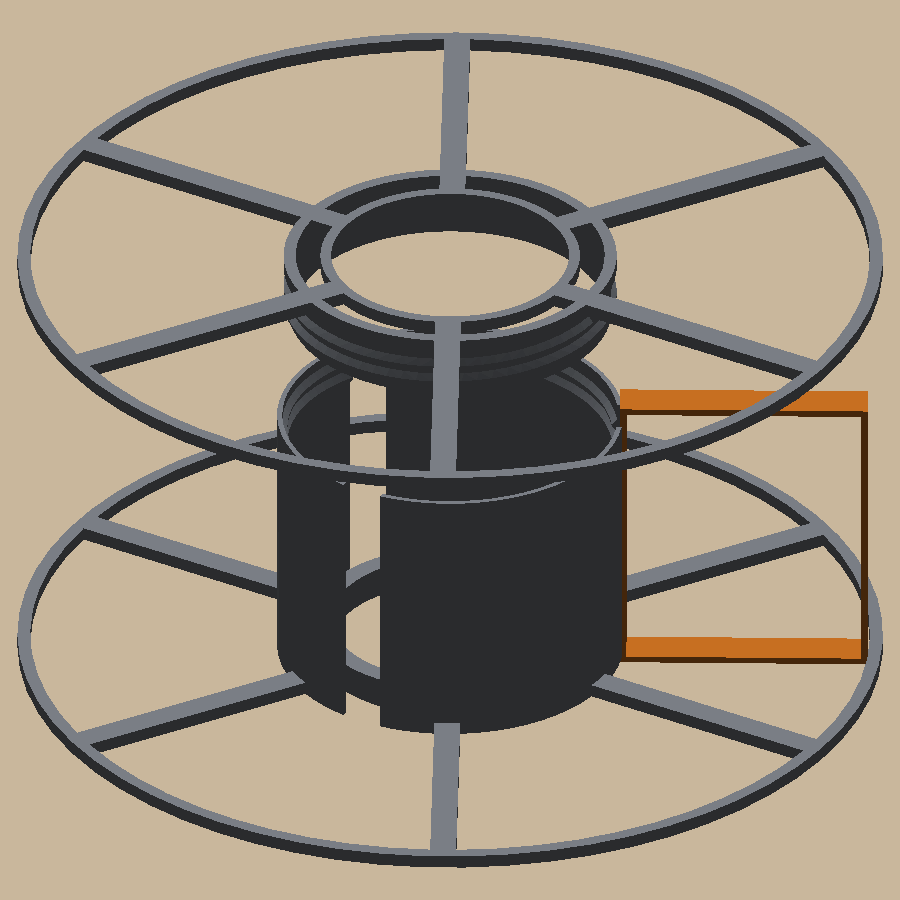
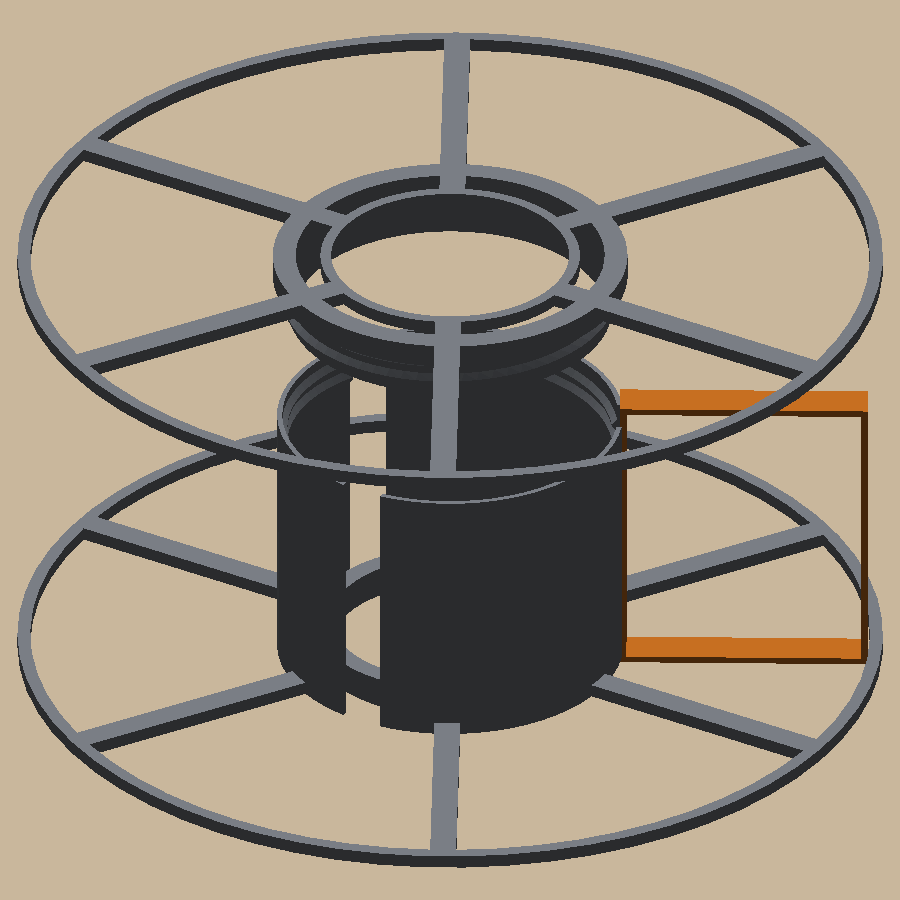
Refill spool: straps go on with the cap off, cap lip holds the slotted barrel's top in
From the pre-print review: straps looped through both flanges jam the cap after ~18°, and the three barrel strips
are only joined at the bottom. Strap tests now run cap-off with a lift-off check; the cap's flange gets a solid ring
and a 2.4 mm lip 0.2 mm outside the barrel. 58 g sliced. Docs: load/unload steps, notch side, what to measure.

diff --git a/examples/refill-spool/tests/test_assembly.py b/examples/refill-spool/tests/test_assembly.py
@@ -2,11 +2,12 @@
 from math import hypot
 
 import pytest
+from build123d import Pos
 
 from cadkit.clash import find_clashes
 from refill_spool.assembly import coil, placed_parts, strap_paths
 from refill_spool.params import P, Params
-from refill_spool.parts import engaged, play_per_flank
+from refill_spool.parts import engaged, play_per_flank, ring
 
 
 def test_cap_seats_on_the_barrel_without_clashing():
@@ -45,9 +46,29 @@ def test_ridge_check_can_fail():
     assert bolt_points_in_nut(Params(thread_clear=-0.3)) > 0
 
 
-def test_strap_paths_are_clear():
-    """Each strap runs under the core in a barrel slot, out through both flanges, and back over the coil."""
-    things = placed_parts(P) + [("coil", coil(P))]
+def test_strap_paths_are_clear_with_the_cap_off():
+    """Straps go on with the cap off (on, they'd stop it turning): each runs under the core in a barrel slot, out
+    through the barrel half's flange, and back over the coil inside the rim."""
+    (barrel_name, barrel), _ = placed_parts(P)
+    things = [(barrel_name, barrel), ("coil", coil(P))]
     for k, path in enumerate(strap_paths(P)):
         hits = [(n, round((path & s).volume, 3)) for n, s in things if (path & s).volume > 1e-3]
         assert hits == [], f"strap {k}: {hits}"
+
+
+@pytest.mark.parametrize("lift", [2.0, 10.0, 30.0, 70.0])
+def test_strapped_coil_lifts_off_the_barrel(lift):
+    (_, barrel), _ = placed_parts(P)
+    load = [coil(P)] + strap_paths(P)
+    assert [round((Pos(0, 0, lift) * s & barrel).volume, 3) for s in load] == [0] * len(load)
+
+
+def test_cap_lip_holds_the_barrel_top_in():
+    """The barrel's strips are only joined at the bottom: screwed home, a lip on the cap wraps their top ends so
+    the thread can't push them apart, lip_clear outside them."""
+    (_, barrel), (_, cap) = placed_parts(P)
+    lip = cap & (Pos(0, 0, P.barrel_top - P.lip_h) * ring(P.barrel_d / 2, P.barrel_d / 2 + 5, P.lip_h))
+    bb = lip.bounding_box()
+    assert bb.min.Z == pytest.approx(P.barrel_top - P.lip_h, abs=1e-3)
+    assert min(hypot(v.X, v.Y) for v in lip.vertices()) == pytest.approx(P.barrel_d / 2 + P.lip_clear, abs=0.02)
+    assert lip.distance_to(barrel) == pytest.approx(P.lip_clear, abs=0.02)

diff --git a/examples/refill-spool/refill_spool/parts.py b/examples/refill-spool/refill_spool/parts.py
@@ -2,7 +2,7 @@
 the spool axis (Z) for the assembly."""
 import math
 
-from build123d import Align, Box, Cylinder, Part, Pos, Rot
+from build123d import Align, Box, Cone, Cylinder, Part, Pos, Rot
 
 from cadkit.shapes import thread, thread_gap
 from refill_spool.params import P, Params
@@ -89,7 +89,14 @@ def cap_centered(p: Params = P) -> Part:
     top = p.flange_t + p.thread_len
     inner = p.bolt_root - p.spigot_wall
     part = flange(p) + ring(p.bore_d / 2, p.bore_d / 2 + p.cap_hub_wall, p.flange_t)
-    part += ring(inner, p.bolt_root + p.thread_depth, p.flange_t)  # under the ridge's lowest flank
+    lip_in = p.barrel_d / 2 + p.lip_clear
+    lip_out = lip_in + p.lip_t
+    part += ring(inner, lip_out, p.flange_t)  # under the spigot's ridge and the lip
+    lip = Pos(0, 0, p.flange_t) * ring(lip_in, lip_out, p.lip_h)
+    tip = p.flange_t + p.lip_h - p.lip_chamfer
+    lead_in = Cone(lip_in, lip_in + p.lip_chamfer, p.lip_chamfer, align=UP) - Cylinder(lip_in - 1, p.lip_chamfer,
+                                                                                      align=UP)
+    part += lip - Pos(0, 0, tip) * lead_in
     part += ring(inner, p.bolt_root, top)
     z0, z1 = bolt_span(p)
     part += thread(p.bolt_root, p.thread_depth, p.pitch, z1 - z0, p.thread_crest, z0=z0, flank=p.thread_flank)

diff --git a/examples/refill-spool/tests/test_parts.py b/examples/refill-spool/tests/test_parts.py
@@ -86,11 +86,16 @@ def test_ams_lite_notch(barrel):
         P.notch_w, abs=0.05)
 
 
-def test_cap_flange_and_spigot(capp):
+def test_cap_flange_spigot_and_lip(capp):
+    lip_out = P.barrel_d / 2 + P.lip_clear + P.lip_t
     assert radial(capp, C, PLAIN_GAP * 1.5, LOW) == [
         pytest.approx((BORE, BORE + P.cap_hub_wall), abs=0.02),
-        pytest.approx((P.bolt_root - P.spigot_wall, P.bolt_root + P.thread_depth), abs=0.02),
+        pytest.approx((P.bolt_root - P.spigot_wall, lip_out), abs=0.02),
         pytest.approx((P.rim_in, P.rim_d / 2), abs=0.02)]
+    lip = radial(capp, C, PLAIN_GAP * 1.5, P.flange_t + 0.1, r0=P.barrel_d / 2 - 0.5, r1=P.rim_in - 0.5)
+    assert lip == [pytest.approx((P.barrel_d / 2 + P.lip_clear, lip_out), abs=0.02)]
+    top = radial(capp, C, PLAIN_GAP * 1.5, P.flange_t + P.lip_h - 0.05, r0=P.barrel_d / 2 - 0.5, r1=P.rim_in - 0.5)
+    assert top[0][0] > P.barrel_d / 2 + P.lip_clear + P.lip_chamfer / 2  # lead-in at the lip's tip
     assert capp.bounding_box().max.Z == pytest.approx(P.flange_t + P.thread_len, abs=1e-3)
     outer = max(radial(capp, C, a, P.flange_t + P.thread_len / 2)[0][1] for a in range(0, 360, 5))
     assert outer == pytest.approx(P.bolt_root + P.thread_depth, abs=0.05)

diff --git a/examples/refill-spool/refill_spool/params.py b/examples/refill-spool/refill_spool/params.py
@@ -31,6 +31,10 @@ class Params:
     # cap
     cap_hub_wall: float = 2.5
     spigot_wall: float = 1.6
+    lip_h: float = 2.4  # ring on the cap flange round the barrel's top: holds the slotted barrel's strips in
+    lip_t: float = 0.8
+    lip_clear: float = 0.2  # radial, outside the barrel
+    lip_chamfer: float = 0.6  # lead-in on the lip's inner tip
     # thread: barrel top is the nut, cap spigot the bolt
     pitch: float = 4.0
     thread_depth: float = 1.2
@@ -50,7 +54,7 @@ class Params:
 
     def __post_init__(self):
         """Heights land on the printer's layers (yours, from cadkit.settings), so every top prints whole."""
-        for name in ("flange_t", "hub_h", "notch_depth"):
+        for name in ("flange_t", "hub_h", "notch_depth", "lip_h"):
             object.__setattr__(self, name, self.printer.snap(getattr(self, name)))
         for name in ("inside_w", "thread_len"):  # stacked on the flange
             object.__setattr__(self, name, self.printer.layers(getattr(self, name)))

diff --git a/examples/refill-spool/refill_spool/build.py b/examples/refill-spool/refill_spool/build.py
@@ -1,5 +1,6 @@
 """uv run python -m refill_spool.build [--out out]: STEP for CAD, one Bambu Studio plate per half, and shaded
-previews in out/render (iso.png: the halves apart over the coil's place; top.png: the barrel half from above)."""
+previews in out/render (iso.png: the halves apart over the coil's place; top.png: the barrel half from
+above; cap.png: the cap as printed, spigot and lip up)."""
 import argparse
 import sys
 from pathlib import Path
@@ -32,6 +33,7 @@ def main(argv: list[str] | None = None) -> int:
     render([(b, GRAY), (apart, GRAY)] + [(s, STRAP) for s in strap_paths(P)[:1]], out / "render" / "iso.png",
            view=(0.6, -1, 0.7), px=900)
     render([(b, GRAY)], out / "render" / "top.png", view=(0, 0, 1), px=900)
+    render([(cap(P), GRAY)], out / "render" / "cap.png", view=(0.6, -1, 0.8), px=900)
     print(f"wrote {out}/ (plates.csv lists what to print)")
     return 0
 

diff --git a/examples/refill-spool/tests/test_build.py b/examples/refill-spool/tests/test_build.py
@@ -8,7 +8,7 @@ from refill_spool.params import P
 
 def test_build_writes_plates_steps_and_renders(tmp_path):
     assert build.main(["--out", str(tmp_path)]) == 0
-    for f in ("render/iso.png", "render/top.png", "step/barrel_half.step", "step/cap.step", "plates.csv"):
+    for f in ("render/iso.png", "render/top.png", "render/cap.png", "step/barrel_half.step", "step/cap.step", "plates.csv"):
         assert (tmp_path / f).exists(), f
     s = slicers.active()
     got = {}

diff --git a/examples/refill-spool/README.md b/examples/refill-spool/README.md
@@ -2,7 +2,7 @@
 
 <img src="docs/images/iso.png" width="49%" alt="Barrel half with the cap lifted off, one strap loop in orange"> <img src="docs/images/top.png" width="49%" alt="Barrel half from above">
 
-A reusable spool for Bambu Lab 1 kg refill coils, made to use as little filament as possible: about 56 g of PETG
+A reusable spool for Bambu Lab 1 kg refill coils, made to use as little filament as possible: about 58 g of PETG
 for both halves, against ~150 g for a solid printed spool. Spoked flanges with a thin rim, a slotted Ø80 barrel,
 and a cap that screws into the barrel top. It fits the AMS lite (Ø55 bore with the drive notch, 65 mm wide).
 Zip ties thread through the barrel slots and round the coil, so the coil comes off in one piece.
@@ -13,9 +13,14 @@ uv run pytest -n 2                     # print checks, sizes, thread fit, strap 
 uv run python -m refill_spool.build    # out/plates (one plate per half), out/step, out/render
 ```
 
-Print both halves outer face down, no supports. To load a refill: put it on the barrel, screw the cap on until its
-flange lands on the barrel top, then cut the refill's own ties. To take a part-used coil off: thread zip ties
-through the three slots and round the coil, unscrew the cap, slide the coil off.
+Print both halves outer face down, no supports. The barrel half has the AMS lite drive notch: mount it with
+that side toward the drive.
+
+- **Load a refill:** slide it onto the barrel half (any of the refill's own ties that run under the core go in the
+  slots), screw the cap on until its flange lands on the barrel top, then cut the refill's ties and pull them out
+  between the spokes.
+- **Take a part-used coil off:** lay the spool barrel half down and unscrew the cap first (straps on, it can't
+  turn). Thread zip ties down the open slots and round the coil, then lift the coil off.
 
 Design and decisions: [docs/specs/refill-spool.md](docs/specs/refill-spool.md). Sizes it depends on:
 [docs/measurements.md](docs/measurements.md).

diff --git a/examples/refill-spool/docs/specs/refill-spool.md b/examples/refill-spool/docs/specs/refill-spool.md
@@ -19,9 +19,18 @@ the spool in one piece.
 - **Straps:** 3 slots, 10 mm wide, run the barrel's full length midway between spokes. A strap goes under the core
   in a slot, out through both flanges between the spokes, and back over the coil inside the rim (needs the coil
   under Ø190; measure a full one). Tests model each loop at 1.5 mm thick and require it to touch nothing.
-- **Filament:** PETG, AMS slot 1. Bambu Studio slices the pair at 56 g (barrel half 35 g, cap 21 g); the tests
+- **Filament:** PETG, AMS slot 1. Bambu Studio slices the pair at 58 g (56 g before the cap lip); the tests
   hold it under 60 g.
 
 All sizes live in `refill_spool/params.py`.
 
 ## Amendments
+
+- **2026-10-20: straps go on with the cap off; the cap gets a lip.** The pre-print review showed that straps
+  looped outside both flanges stop the cap turning after ~18°, and the barrel's three strips (slotted full length)
+  are only joined at the bottom, so the thread could push them apart and jump.
+  - New procedure: unscrew the cap, thread ties down the open slots and round the coil, lift the coil off.
+    Tests check the strap paths with the cap off and lift the strapped coil clear at several heights.
+  - The cap no longer needs strap openings, so its flange has a solid ring (Ø71 to Ø82) and a lip 2.4 mm tall,
+    0.8 mm thick, 0.2 mm outside the barrel, with a 0.6 mm lead-in. Screwed home, it wraps the strips' top ends.
+  - The drive notch is on the barrel half only: that side goes toward the AMS lite's drive.

diff --git a/examples/refill-spool/docs/measurements.md b/examples/refill-spool/docs/measurements.md
@@ -10,5 +10,9 @@
 | Flange thickness / between flanges | 4 mm / ~59 mm | user's printed spools (200 mm walls, 4 mm thick) |
 | AMS lite drive notch | 6 mm in from the outer face, 3 mm high, 3 mm wide | user |
 
-Still to measure on a real refill: coil width (must be under 59 mm) and full coil outside diameter (straps pass
-over it inside the rim at Ø194; the model assumes Ø190).
+Still to measure on a real refill:
+- coil width including its own ties (must be under 59 mm; 0.5 mm a side is all the room there is);
+- full coil outside diameter (straps pass over it inside the rim at Ø194; the model assumes Ø190);
+- how many ties run under the core and how they're spaced (they only fit in the barrel's 3 slots, 120° apart);
+- how far the AMS lite hub reaches into the bore (the bore bears on a 7.2 mm ring at the notch side and a 3 mm ring
+  on the cap side, 55 mm apart).

diff --git a/README.md b/README.md
@@ -31,7 +31,7 @@ one, a wall sunflower (`examples/sunflower-wall`), shows organic shapes and mult
 ├── examples/
 │   ├── fit-coupon/                smallest complete project: start here; the template for `cadkit.new`
 │   ├── candle-adapter/            one black part, glued into a chandelier cup
-│   ├── refill-spool/              a 56 g screw-together spool for Bambu refills, threads and strap slots
+│   ├── refill-spool/              a 58 g screw-together spool for Bambu refills, threads and strap slots
 │   ├── near-ceiling-track/        everything at scale: an HO railroad shelf around a room, ~220 tests
 │   └── sunflower-wall/            a 16" wall sunflower kit and a 10" one-piece print, four AMS colors
 ├── docs/specs/                    decisions about the tool itself

diff --git a/CLAUDE.md b/CLAUDE.md
@@ -22,7 +22,7 @@
 - `examples/sharpie-colorizer/`: an inline Sharpie colorizer for the A1's external-spool guide tube (package
   `sharpie_colorizer`): a snap clip on the 40 × 20 frame bar and a block holding three tilted markers; fit-test
   plate first.
-- `examples/refill-spool/`: a ~56 g two-piece spool for Bambu refill coils (package `refill_spool`): spoked flanges,
+- `examples/refill-spool/`: a ~58 g two-piece spool for Bambu refill coils (package `refill_spool`): spoked flanges,
   slotted barrel for zip-tie straps, screw-on cap, AMS lite bore notch. Threads from `cadkit.shapes.thread`.
 - `examples/sunflower-wall/`: a 400 mm wall sunflower (package `sunflower`): lofted arched petals in quarters, a
   Fibonacci seed head of ~1,100 diamond seeds, snap pins.
